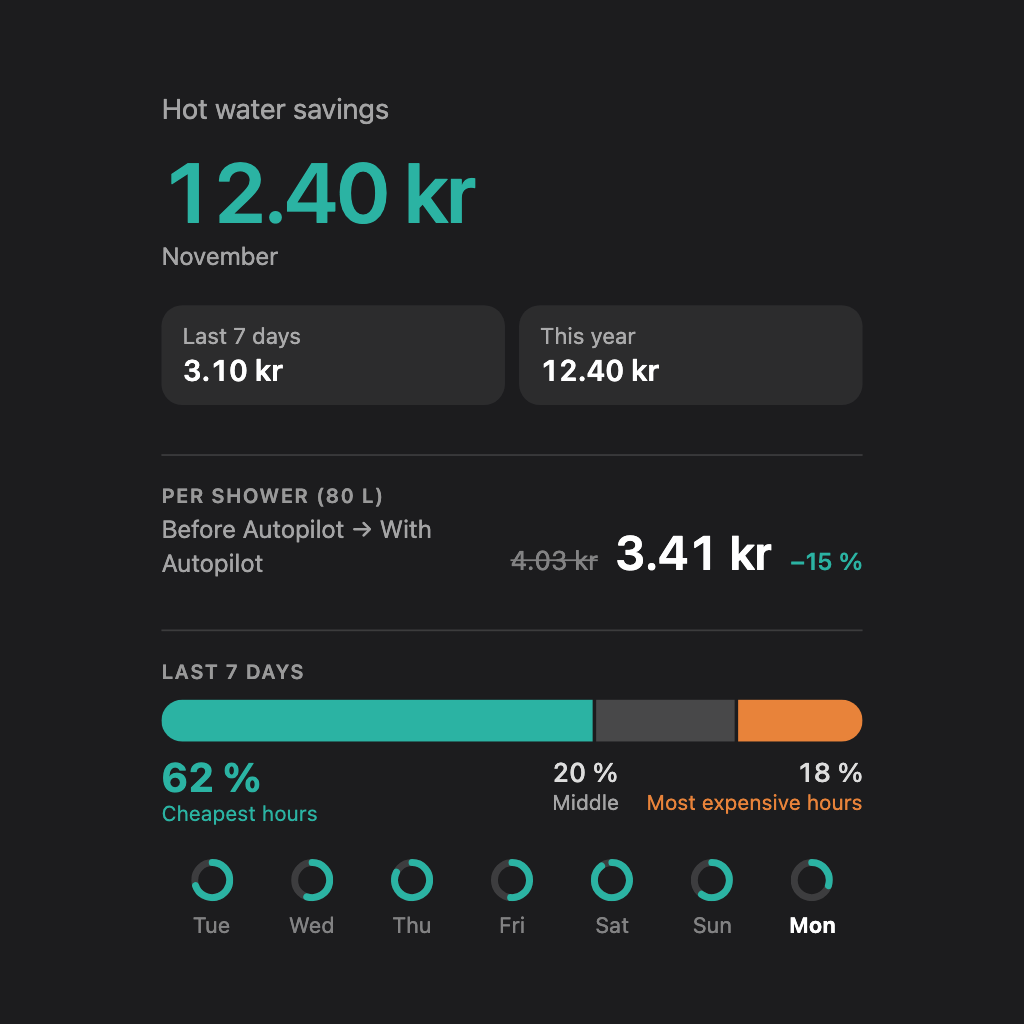
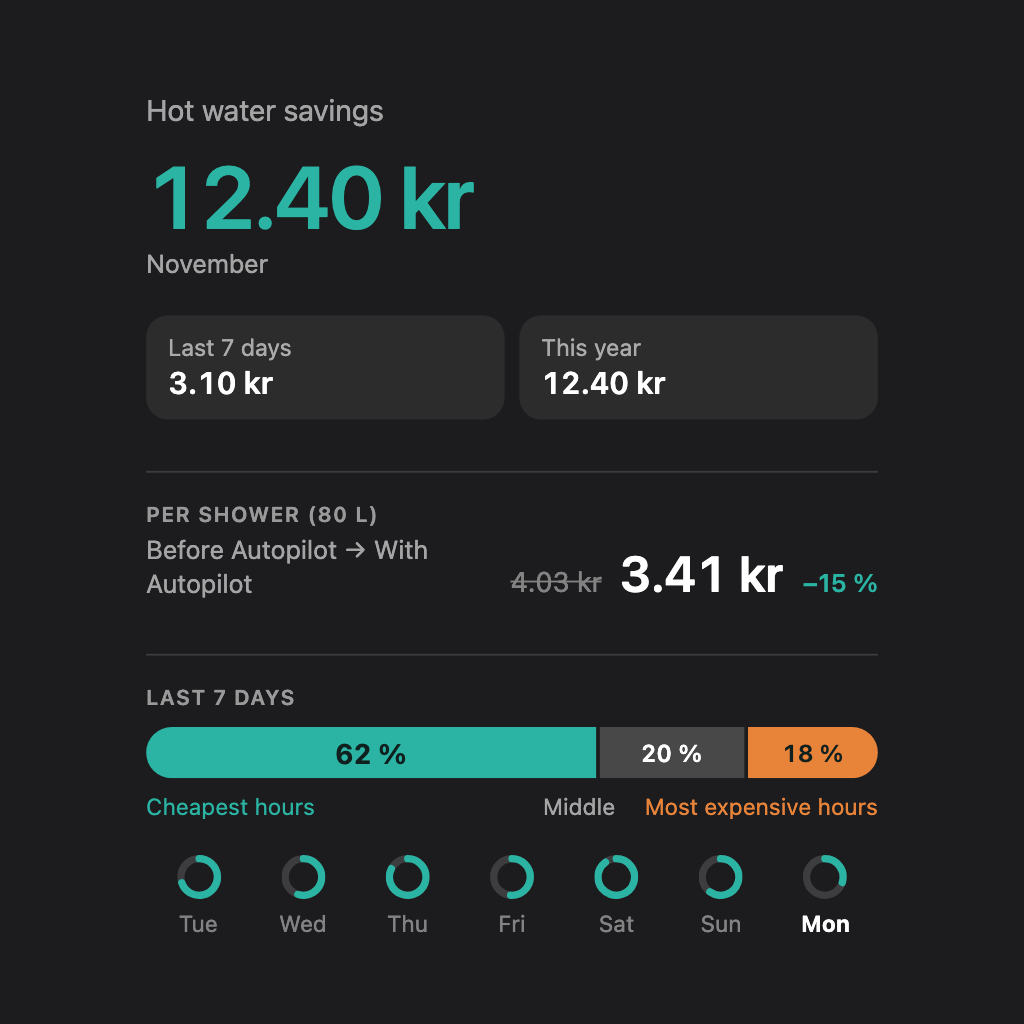
Savings cards: each share inside its part of the bar, the thirds' names under it
Dark text on the bar in dark mode, where white on the light teal and orange falls under 3:1.

diff --git a/widgets/savings/public/index.html b/widgets/savings/public/index.html
@@ -23,17 +23,17 @@
       .sv-row-head:first-child { margin-top: 0; }
       .sv-row-k { font-weight: 600; font-size: 0.9em; }
       .sv-row-v { font-size: 0.8em; opacity: 0.6; font-variant-numeric: tabular-nums; white-space: nowrap; }
-      .sv-bar { display: flex; gap: 2px; height: 24px; border-radius: 12px; overflow: hidden; margin: 10px 0 0; }
-      .sv-bar > div { min-width: 2px; }
+      .sv-bar { display: flex; gap: 2px; height: 28px; border-radius: 14px; overflow: hidden; margin: 10px 0 0; }
+      .sv-part { display: flex; align-items: center; justify-content: center; overflow: hidden; color: var(--sv-on-tier); font-size: 0.82em; font-weight: 600; font-variant-numeric: tabular-nums; white-space: nowrap; }
+      .sv-part.mid { color: inherit; }
+      .sv-part.lead { font-size: 0.95em; font-weight: 700; }
+      .sv-part { min-width: 2px; }
       /* One label under each part of the bar: the cheap one from the left edge, the expensive one to
          the right edge, the middle one centred under its own part and kept clear of the other two. */
       .sv-marks { position: relative; margin: 8px 0 0; }
       .sv-mark { position: absolute; top: 0; white-space: nowrap; }
       .sv-mark.end { text-align: right; }
-      .sv-mark-v { font-size: 0.95em; font-weight: 500; opacity: 0.85; font-variant-numeric: tabular-nums; line-height: 1.3; }
-      /* The cheap share is what the bar is for: it leads, the other two follow quietly. */
-      .sv-mark-v.lead { font-size: 1.45em; font-weight: 700; opacity: 1; line-height: 1.1; color: var(--sv-cheap); }
-      .sv-mark-k { font-size: 0.75em; line-height: 1.3; }
+      .sv-mark-k { font-size: 0.78em; line-height: 1.3; }
       .sv-shower-row { display: flex; justify-content: space-between; align-items: flex-end; gap: 12px; }
       .sv-shower { display: flex; align-items: baseline; flex-wrap: wrap; flex: none; gap: 10px; white-space: nowrap; }
       .sv-was { font-size: 0.95em; opacity: 0.45; text-decoration: line-through; font-variant-numeric: tabular-nums; }
@@ -62,10 +62,10 @@
       /* Cheap and expensive meet 3:1 or better on their card; the middle third is a quiet grey on
          purpose. The theme is read from the text colour Homey gives the page (applyTheme), the media
          query first. */
-      :root { --sv-cheap: #0f8374; --sv-middle: rgba(127, 127, 127, 0.45); --sv-dear: #c4580d; --sv-tile: rgba(127, 127, 127, 0.1); --sv-rule: rgba(127, 127, 127, 0.25); }
-      :root[data-theme="dark"] { --sv-cheap: #2bb3a3; --sv-dear: #e8833a; --sv-tile: rgba(255, 255, 255, 0.07); --sv-rule: rgba(255, 255, 255, 0.14); }
+      :root { --sv-on-tier: #ffffff; --sv-cheap: #0f8374; --sv-middle: rgba(127, 127, 127, 0.45); --sv-dear: #c4580d; --sv-tile: rgba(127, 127, 127, 0.1); --sv-rule: rgba(127, 127, 127, 0.25); }
+      :root[data-theme="dark"] { --sv-on-tier: #10201e; --sv-cheap: #2bb3a3; --sv-dear: #e8833a; --sv-tile: rgba(255, 255, 255, 0.07); --sv-rule: rgba(255, 255, 255, 0.14); }
       @media (prefers-color-scheme: dark) {
-        :root:not([data-theme="light"]) { --sv-cheap: #2bb3a3; --sv-dear: #e8833a; --sv-tile: rgba(255, 255, 255, 0.07); --sv-rule: rgba(255, 255, 255, 0.14); }
+        :root:not([data-theme="light"]) { --sv-on-tier: #10201e; --sv-cheap: #2bb3a3; --sv-dear: #e8833a; --sv-tile: rgba(255, 255, 255, 0.07); --sv-rule: rgba(255, 255, 255, 0.14); }
       }
     </style>
   </head>
@@ -135,28 +135,31 @@
       function tierBar(shares, names) {
         var total = shares[0] + shares[1] + shares[2], box = el('div');
         var p = shares.map(function (v) { return total > 0 ? v / total : 0; });
-        var bar = el('div', 'sv-bar');
+        // Each part carries its own share, the cheap one bold. A share that does not fit its part
+        // is left out: the part's width says it.
+        var bar = el('div', 'sv-bar'), inside = [];
         p.forEach(function (v, i) {
           if (v <= 0) return;
-          var part = el('div'); part.style.flex = String(v); part.style.background = TIER[i];
-          bar.appendChild(part);
+          var part = el('div', 'sv-part' + (i === 1 ? ' mid' : '') + (i === 0 ? ' lead' : ''));
+          part.style.flex = String(v); part.style.background = TIER[i];
+          var t = el('span', '', pct(v));
+          part.appendChild(t); bar.appendChild(part); inside.push([part, t]);
         });
         box.appendChild(bar);
+        layouts.push(function () {
+          inside.forEach(function (x) { if (x[1].offsetWidth + 12 > x[0].clientWidth) x[1].style.display = 'none'; });
+        });
+        if (!names) return box;
+        // The thirds' names under their parts: the cheap one from the left edge, the expensive one
+        // to the right edge, the middle one centred under its part, kept clear of the other two.
         var marks = el('div', 'sv-marks'), items = [];
         p.forEach(function (v, i) {
-          var m = el('div', 'sv-mark' + (i === 2 ? ' end' : ''));
-          m.appendChild(el('div', 'sv-mark-v' + (i === 0 ? ' lead' : ''), pct(v)));
-          if (names && names[i]) {
-            var k = el('div', 'sv-mark-k', names[i]);
-            k.style.color = i === 1 ? 'inherit' : TIER[i];
-            if (i === 1) k.style.opacity = 0.6;
-            m.appendChild(k);
-          }
+          var m = el('div', 'sv-mark sv-mark-k' + (i === 2 ? ' end' : ''), names[i] || '');
+          m.style.color = i === 1 ? 'inherit' : TIER[i];
+          if (i === 1) m.style.opacity = 0.6;
           marks.appendChild(m); items.push(m);
         });
         box.appendChild(marks);
-        // Placed once the marks have a width: the outer two pinned to the edges, the middle centred
-        // under its part, nudged to stay clear of them, and left out when there is no room or no part.
         layouts.push(function () {
           var W = marks.clientWidth, w = items.map(function (m) { return m.offsetWidth; }), GAP = 16;
           items[0].style.left = '0';

diff --git a/widgets/savings_hotwater/public/index.html b/widgets/savings_hotwater/public/index.html
@@ -23,17 +23,17 @@
       .sv-row-head:first-child { margin-top: 0; }
       .sv-row-k { font-weight: 600; font-size: 0.9em; }
       .sv-row-v { font-size: 0.8em; opacity: 0.6; font-variant-numeric: tabular-nums; white-space: nowrap; }
-      .sv-bar { display: flex; gap: 2px; height: 24px; border-radius: 12px; overflow: hidden; margin: 10px 0 0; }
-      .sv-bar > div { min-width: 2px; }
+      .sv-bar { display: flex; gap: 2px; height: 28px; border-radius: 14px; overflow: hidden; margin: 10px 0 0; }
+      .sv-part { display: flex; align-items: center; justify-content: center; overflow: hidden; color: var(--sv-on-tier); font-size: 0.82em; font-weight: 600; font-variant-numeric: tabular-nums; white-space: nowrap; }
+      .sv-part.mid { color: inherit; }
+      .sv-part.lead { font-size: 0.95em; font-weight: 700; }
+      .sv-part { min-width: 2px; }
       /* One label under each part of the bar: the cheap one from the left edge, the expensive one to
          the right edge, the middle one centred under its own part and kept clear of the other two. */
       .sv-marks { position: relative; margin: 8px 0 0; }
       .sv-mark { position: absolute; top: 0; white-space: nowrap; }
       .sv-mark.end { text-align: right; }
-      .sv-mark-v { font-size: 0.95em; font-weight: 500; opacity: 0.85; font-variant-numeric: tabular-nums; line-height: 1.3; }
-      /* The cheap share is what the bar is for: it leads, the other two follow quietly. */
-      .sv-mark-v.lead { font-size: 1.45em; font-weight: 700; opacity: 1; line-height: 1.1; color: var(--sv-cheap); }
-      .sv-mark-k { font-size: 0.75em; line-height: 1.3; }
+      .sv-mark-k { font-size: 0.78em; line-height: 1.3; }
       .sv-shower-row { display: flex; justify-content: space-between; align-items: flex-end; gap: 12px; }
       .sv-shower { display: flex; align-items: baseline; flex-wrap: wrap; flex: none; gap: 10px; white-space: nowrap; }
       .sv-was { font-size: 0.95em; opacity: 0.45; text-decoration: line-through; font-variant-numeric: tabular-nums; }
@@ -62,10 +62,10 @@
       /* Cheap and expensive meet 3:1 or better on their card; the middle third is a quiet grey on
          purpose. The theme is read from the text colour Homey gives the page (applyTheme), the media
          query first. */
-      :root { --sv-cheap: #0f8374; --sv-middle: rgba(127, 127, 127, 0.45); --sv-dear: #c4580d; --sv-tile: rgba(127, 127, 127, 0.1); --sv-rule: rgba(127, 127, 127, 0.25); }
-      :root[data-theme="dark"] { --sv-cheap: #2bb3a3; --sv-dear: #e8833a; --sv-tile: rgba(255, 255, 255, 0.07); --sv-rule: rgba(255, 255, 255, 0.14); }
+      :root { --sv-on-tier: #ffffff; --sv-cheap: #0f8374; --sv-middle: rgba(127, 127, 127, 0.45); --sv-dear: #c4580d; --sv-tile: rgba(127, 127, 127, 0.1); --sv-rule: rgba(127, 127, 127, 0.25); }
+      :root[data-theme="dark"] { --sv-on-tier: #10201e; --sv-cheap: #2bb3a3; --sv-dear: #e8833a; --sv-tile: rgba(255, 255, 255, 0.07); --sv-rule: rgba(255, 255, 255, 0.14); }
       @media (prefers-color-scheme: dark) {
-        :root:not([data-theme="light"]) { --sv-cheap: #2bb3a3; --sv-dear: #e8833a; --sv-tile: rgba(255, 255, 255, 0.07); --sv-rule: rgba(255, 255, 255, 0.14); }
+        :root:not([data-theme="light"]) { --sv-on-tier: #10201e; --sv-cheap: #2bb3a3; --sv-dear: #e8833a; --sv-tile: rgba(255, 255, 255, 0.07); --sv-rule: rgba(255, 255, 255, 0.14); }
       }
     </style>
   </head>
@@ -135,28 +135,31 @@
       function tierBar(shares, names) {
         var total = shares[0] + shares[1] + shares[2], box = el('div');
         var p = shares.map(function (v) { return total > 0 ? v / total : 0; });
-        var bar = el('div', 'sv-bar');
+        // Each part carries its own share, the cheap one bold. A share that does not fit its part
+        // is left out: the part's width says it.
+        var bar = el('div', 'sv-bar'), inside = [];
         p.forEach(function (v, i) {
           if (v <= 0) return;
-          var part = el('div'); part.style.flex = String(v); part.style.background = TIER[i];
-          bar.appendChild(part);
+          var part = el('div', 'sv-part' + (i === 1 ? ' mid' : '') + (i === 0 ? ' lead' : ''));
+          part.style.flex = String(v); part.style.background = TIER[i];
+          var t = el('span', '', pct(v));
+          part.appendChild(t); bar.appendChild(part); inside.push([part, t]);
         });
         box.appendChild(bar);
+        layouts.push(function () {
+          inside.forEach(function (x) { if (x[1].offsetWidth + 12 > x[0].clientWidth) x[1].style.display = 'none'; });
+        });
+        if (!names) return box;
+        // The thirds' names under their parts: the cheap one from the left edge, the expensive one
+        // to the right edge, the middle one centred under its part, kept clear of the other two.
         var marks = el('div', 'sv-marks'), items = [];
         p.forEach(function (v, i) {
-          var m = el('div', 'sv-mark' + (i === 2 ? ' end' : ''));
-          m.appendChild(el('div', 'sv-mark-v' + (i === 0 ? ' lead' : ''), pct(v)));
-          if (names && names[i]) {
-            var k = el('div', 'sv-mark-k', names[i]);
-            k.style.color = i === 1 ? 'inherit' : TIER[i];
-            if (i === 1) k.style.opacity = 0.6;
-            m.appendChild(k);
-          }
+          var m = el('div', 'sv-mark sv-mark-k' + (i === 2 ? ' end' : ''), names[i] || '');
+          m.style.color = i === 1 ? 'inherit' : TIER[i];
+          if (i === 1) m.style.opacity = 0.6;
           marks.appendChild(m); items.push(m);
         });
         box.appendChild(marks);
-        // Placed once the marks have a width: the outer two pinned to the edges, the middle centred
-        // under its part, nudged to stay clear of them, and left out when there is no room or no part.
         layouts.push(function () {
           var W = marks.clientWidth, w = items.map(function (m) { return m.offsetWidth; }), GAP = 16;
           items[0].style.left = '0';
